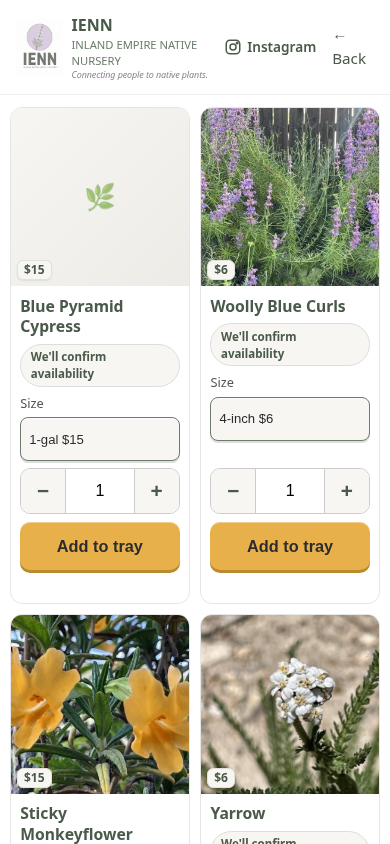
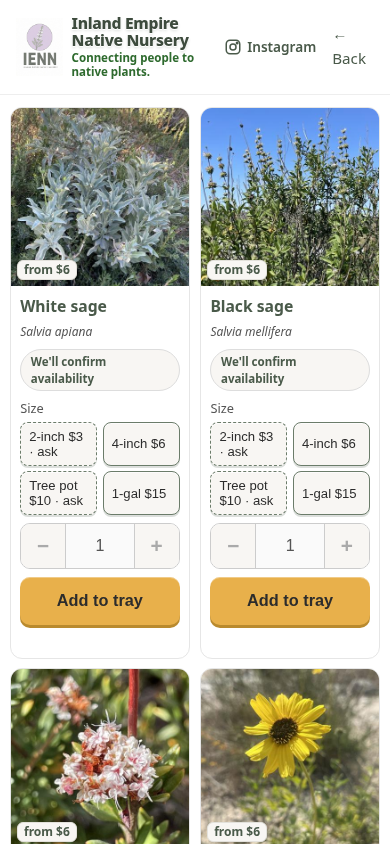
Preview: remove top explanatory text, full-name wordmark (heavy, soft depth), green slogan

diff --git a/index.html b/index.html
@@ -37,16 +37,15 @@
     }
     .logo { display: flex; align-items: center; gap: 0.6rem; text-decoration: none; color: inherit; }
     .logo img { height: 64px; width: auto; display: block; }
-    .logo-text { font-weight: 700; font-size: 1.05rem; color: var(--sage-dark); }
     .steps-strip { display:flex; justify-content:center; gap:0.9rem; list-style:none; margin:0.5rem auto 0; padding:0.3rem 0.8rem; font-size:0.78rem; color:#4a5a4a; background:#f8f6f3; border:1px solid #e6e2da; border-radius:999px; width:max-content; max-width:100%; }
     .steps-strip li + li::before { content:"·"; margin-right:0.9rem; color:#9aa69a; }
     .steps-strip b { font-weight:700; color:#6b7c6a; }
-    .hdr-slogan { font-size:0.66rem; color:#888; font-style:italic; line-height:1.2; white-space:nowrap; }
-    @media (max-width:480px) { .hdr-slogan { font-size:0.56rem; letter-spacing:-0.1px; } }
+    .brand-name { font-weight:800; font-size:1.12rem; line-height:1.1; letter-spacing:-0.02em; color:#3d4b3d; text-shadow:0 1px 0 #fff, 0 2px 3px rgba(61,75,61,0.18); }
+    .hdr-slogan { font-weight:700; font-size:0.8rem; line-height:1.2; color:#2f6b2f; margin-top:0.15rem; text-shadow:0 1px 0 rgba(255,255,255,0.9); }
+    @media (max-width:480px) { .brand-name { font-size:0.98rem; } .hdr-slogan { font-size:0.72rem; } }
     .strip-wrap { display:flex; justify-content:flex-end; padding:0 1rem; margin-top:0.35rem; }
     .strip-wrap .steps-strip { margin:0; }
     @media (max-width:600px) { .strip-wrap { justify-content:center; } }
-    .logo-sub { font-size: 0.65rem; color: var(--sage); letter-spacing: 0.4px; }
     .order-btn {
       background: var(--red);
       color: #fff;
@@ -191,7 +190,6 @@
     @keyframes bump { from { transform: translateY(-6px); opacity: .4; } to { transform: none; opacity: 1; } }
     @media (prefers-reduced-motion: reduce) { .cart-bar.bump #cart-count { animation: none; } }
     /* consistency with order.html: badges, 44px targets, primary button */
-    .slogan { font-size: 0.85rem; letter-spacing: 0.04em; color: var(--sage); margin-bottom: 0.4rem; }
     .badge.in { background: #e6f4e7; color: #2e7d32; }
     .badge.low { background: #fff4d6; color: #7a5a00; }
     .badge.out { background: #eee; color: #666; }
@@ -242,8 +240,7 @@
     <a href="index.html" class="logo">
       <img src="images/ienn-logo-IMG_2773-600.jpg" width="52" height="64" alt="Inland Empire Native Nursery logo">
       <div>
-        <div class="logo-text">IENN</div>
-        <div class="logo-sub">INLAND EMPIRE NATIVE NURSERY</div>
+        <div class="brand-name">Inland Empire Native Nursery</div>
         <div class="hdr-slogan">Connecting people to native plants.</div>
       </div>
     </a>
@@ -255,18 +252,16 @@
   <div class="strip-wrap"><ol class="steps-strip" aria-label="How to order"><li><b>1.</b> Click</li><li><b>2.</b> Order</li><li><b>3.</b> Pick up</li></ol></div>
 
   <section class="hero">
-    <p class="slogan">Connecting people to native plants</p>
     <h1>Locally grown California native plants for the Inland Empire</h1>
-    <p>Healthy, climate-adapted plants ready for pickup. No shipping — just plants that thrive here.</p>
   </section>
 
   <section class="plants" id="plants">
     <h2>Shop native plants</h2>
-    <p style="font-size:0.95rem; color:#555; margin-bottom:0.5rem;">Pick a quantity, tap Add, then check out. Prices by pot size: 2" $3 • 4" $6 • Tree pot $10 • 1 gal $15. 2" and Tree pot are available on request. <a href="#" id="printlist-link" target="_blank" rel="noopener" style="color:var(--sage-dark)">Printable plant list</a></p>
     <p class="shop-status" id="shop-status" role="status">Loading live availability…</p>
     <div class="plant-grid" id="shop-grid" aria-busy="true">
       <div class="plant-card skel"></div><div class="plant-card skel"></div><div class="plant-card skel"></div><div class="plant-card skel"></div>
     </div>
+    <p class="printlist" style="text-align:center;margin-top:1rem;font-size:0.9rem;"><a href="#" id="printlist-link" target="_blank" rel="noopener" style="color:var(--sage-dark)">Printable plant list</a></p>
     <noscript><p><a href="order.html">Open the order form</a> to choose plants.</p></noscript>
   </section>
 

diff --git a/order.html b/order.html
@@ -17,17 +17,16 @@
     header { background:#fff; border-bottom:1px solid #eee; padding:0.75rem 1rem; display:flex; align-items:center; justify-content:space-between; }
     .logo { display:flex; align-items:center; gap:0.55rem; text-decoration:none; color:inherit; }
     .logo img { height:58px; width:auto; display:block; }
-    .logo-text { font-weight:700; color:var(--sage-dark); }
     .steps-strip { display:flex; justify-content:center; gap:0.9rem; list-style:none; margin:0.5rem auto 0; padding:0.3rem 0.8rem; font-size:0.78rem; color:#4a5a4a; background:#f8f6f3; border:1px solid #e6e2da; border-radius:999px; width:max-content; max-width:100%; }
     .steps-strip li + li::before { content:"·"; margin-right:0.9rem; color:#9aa69a; }
     .steps-strip b { font-weight:700; color:#6b7c6a; }
-    .hdr-slogan { font-size:0.66rem; color:#888; font-style:italic; line-height:1.2; white-space:nowrap; }
-    @media (max-width:480px) { .hdr-slogan { font-size:0.56rem; letter-spacing:-0.1px; } }
+    .brand-name { font-weight:800; font-size:1.12rem; line-height:1.1; letter-spacing:-0.02em; color:#3d4b3d; text-shadow:0 1px 0 #fff, 0 2px 3px rgba(61,75,61,0.18); }
+    .hdr-slogan { font-weight:700; font-size:0.8rem; line-height:1.2; color:#2f6b2f; margin-top:0.15rem; text-shadow:0 1px 0 rgba(255,255,255,0.9); }
+    @media (max-width:480px) { .brand-name { font-size:0.98rem; } .hdr-slogan { font-size:0.72rem; } }
     .poppy { display:inline-block; vertical-align:middle; margin-left:0.4rem; width:36px; height:36px; image-rendering:pixelated; }
     .confirm:not([hidden]) .poppy { animation:poppy-pop 400ms cubic-bezier(.3,1.6,.5,1) both; }
     @keyframes poppy-pop { 0% { transform:scale(0.3); opacity:0; } 70% { transform:scale(1.15); opacity:1; } 100% { transform:scale(1); } }
     @media (prefers-reduced-motion:reduce) { .confirm:not([hidden]) .poppy { animation:none; } }
-    .logo-sub { font-size:0.7rem; color:var(--sage); }
     main { max-width:1080px; margin:0 auto; }
     h1 { font-size:1.5rem; color:var(--sage-dark); margin:1.25rem 1rem 0.5rem; }
     h2 { font-size:1.15rem; color:var(--sage-dark); margin:1.5rem 1rem 0.25rem; }
@@ -233,8 +232,7 @@
     <a href="index.html" class="logo" aria-label="Inland Empire Native Nursery home">
       <img src="images/ienn-logo-IMG_2773-600.jpg" width="47" height="58" alt="Inland Empire Native Nursery logo">
       <div>
-        <div class="logo-text">IENN</div>
-        <div class="logo-sub">INLAND EMPIRE NATIVE NURSERY</div>
+        <div class="brand-name">Inland Empire Native Nursery</div>
         <div class="hdr-slogan">Connecting people to native plants.</div>
       </div>
     </a>
